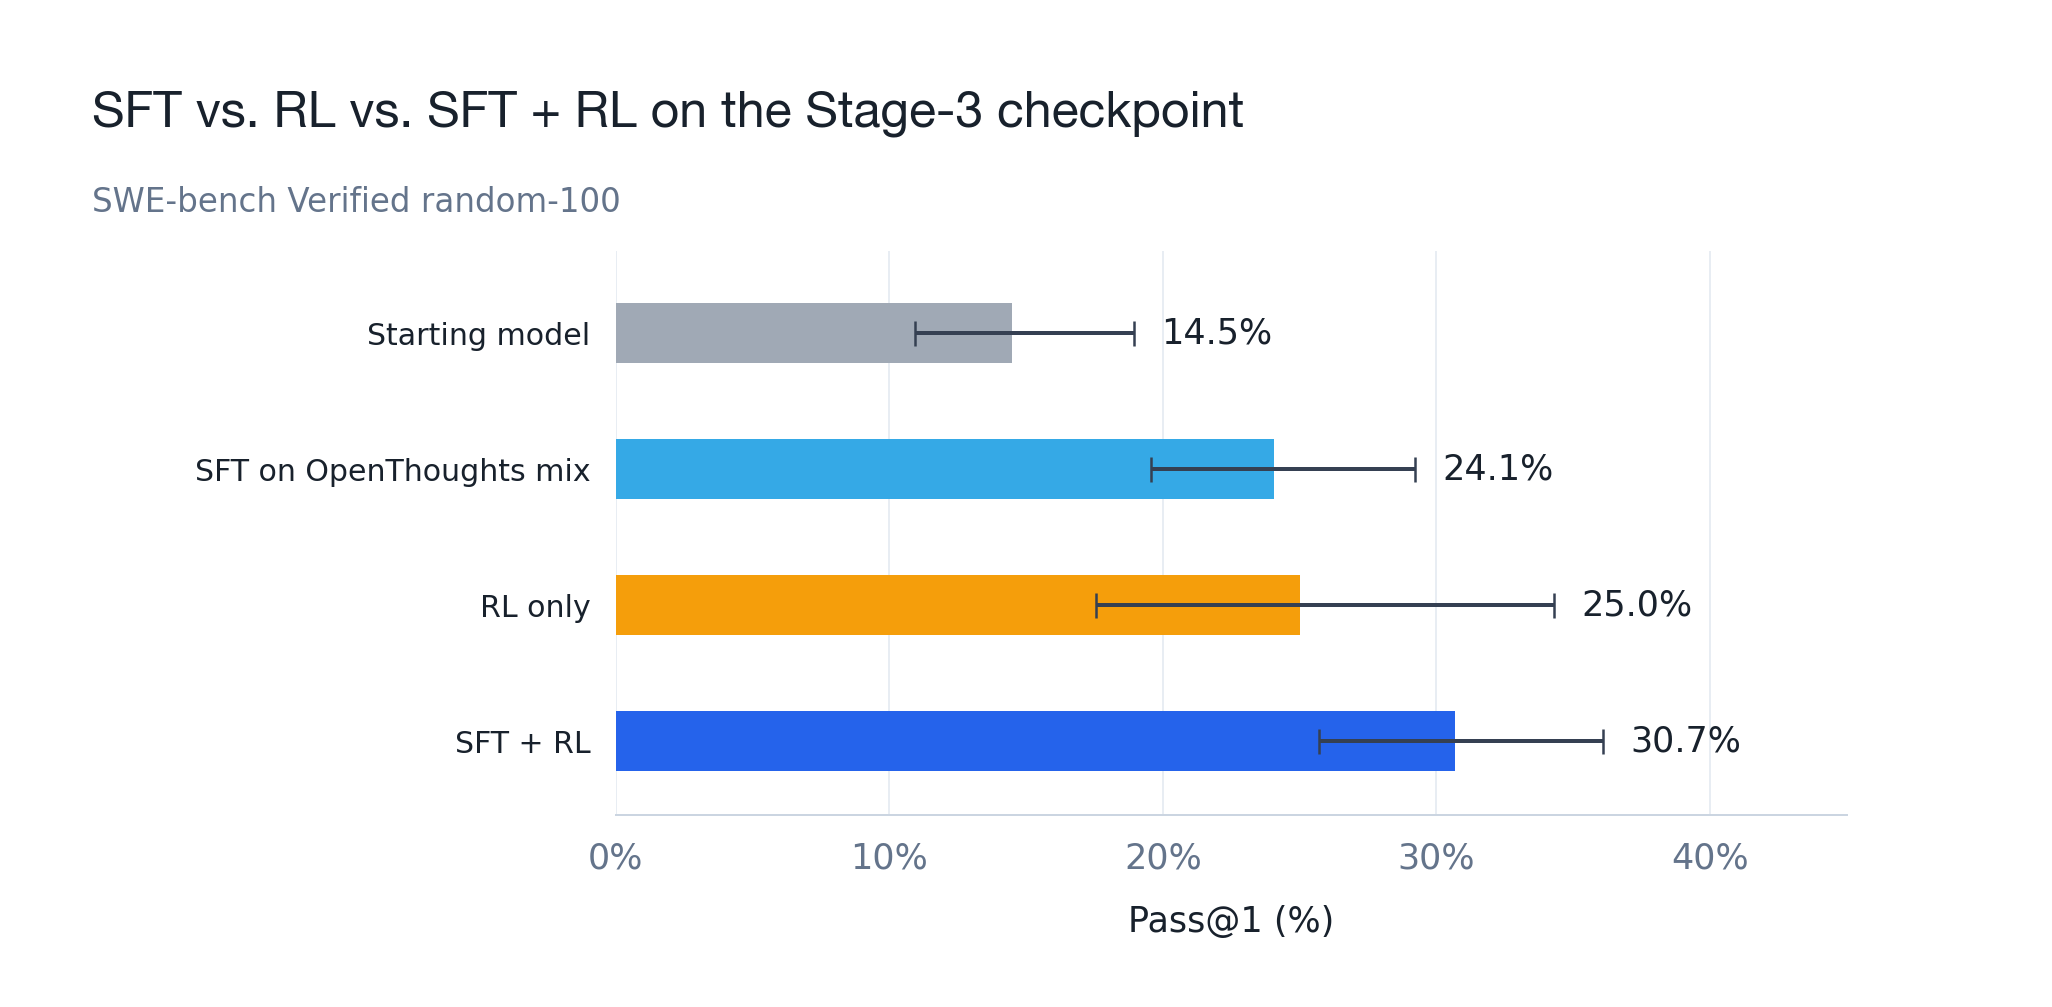
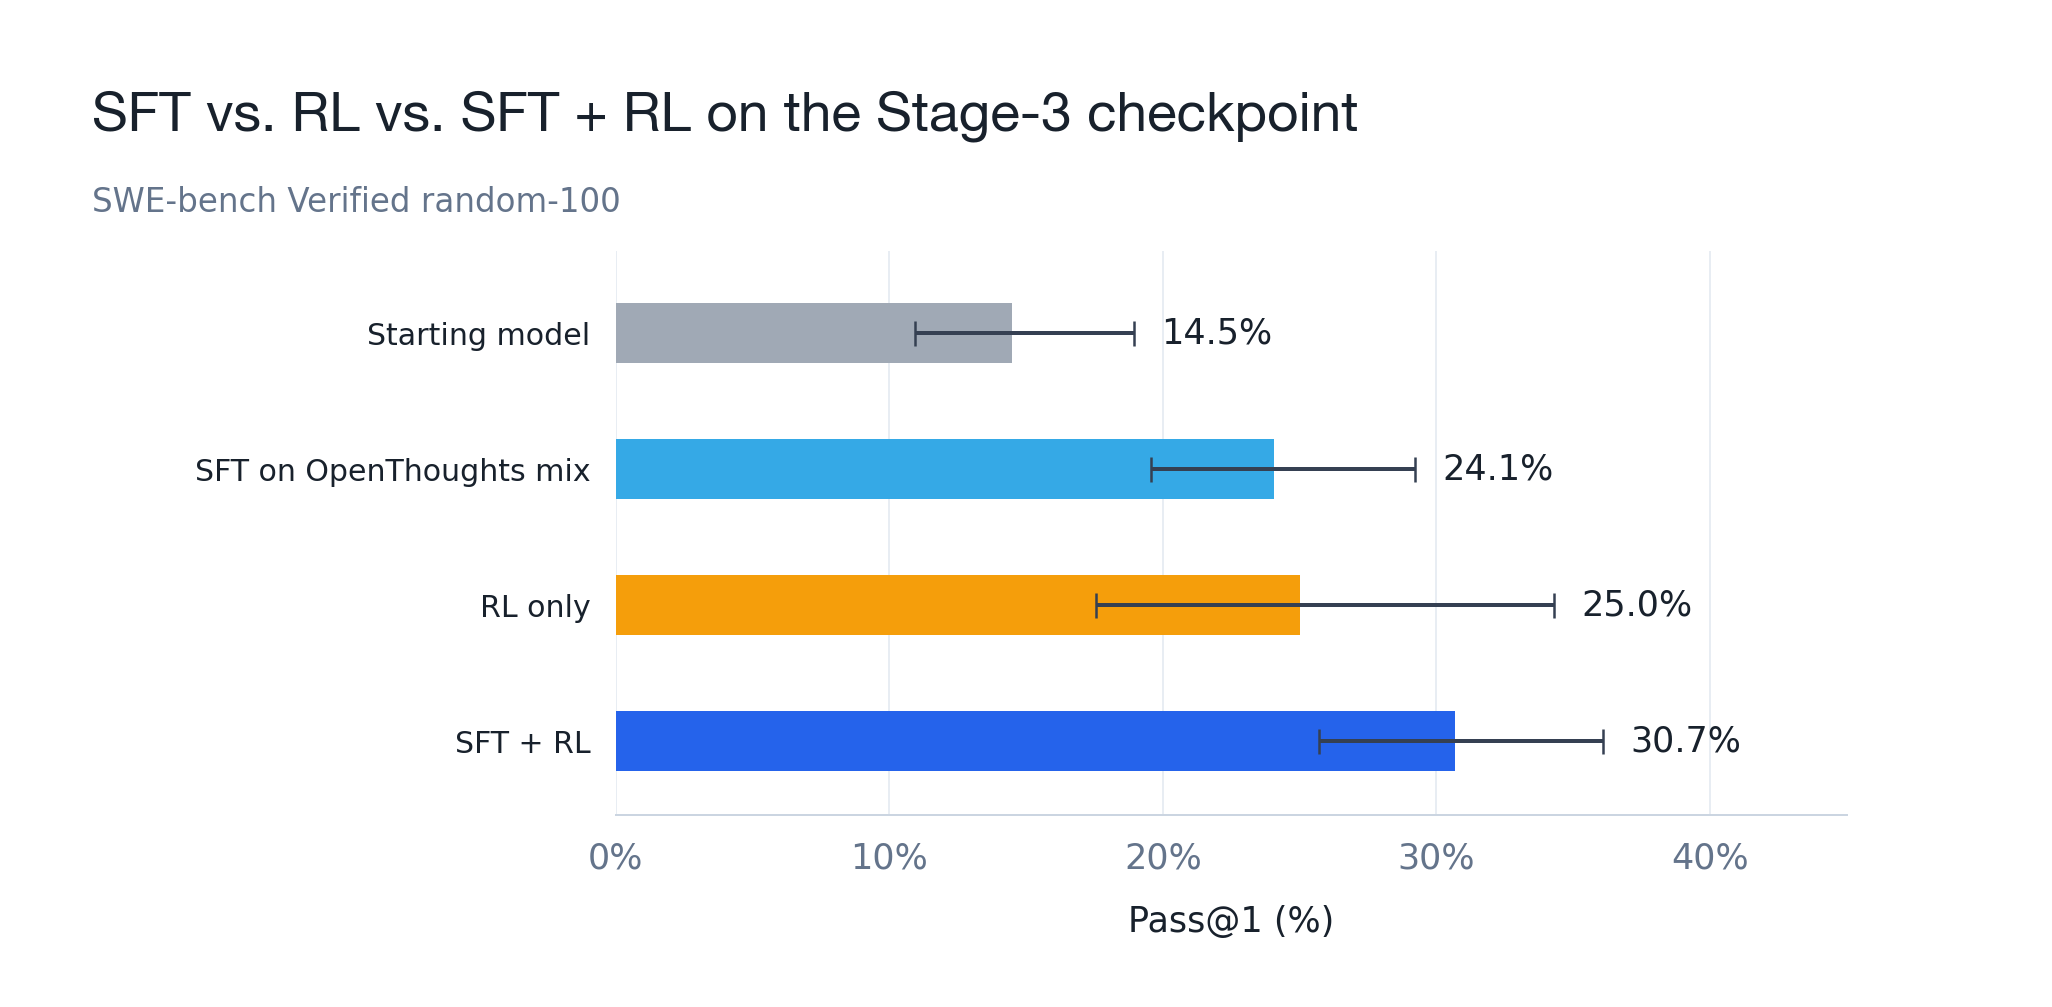
Match historical comparison title size

Changed region(s): [[0.0312, 0.0924, 0.6862, 0.1539]]

diff --git a/scripts/render_snowball_earlier_swe.py b/scripts/render_snowball_earlier_swe.py
@@ -23,7 +23,7 @@ for i,((k,n),color) in enumerate(zip(counts,colors)):
  ax.barh(y,100*v,height=.44,color=color,zorder=2)
  ax.errorbar(100*v,y,xerr=[[100*(v-lo)],[100*(hi-v)]],fmt='none',ecolor='#354052',capsize=5,elinewidth=1.6,zorder=3)
  ax.text(100*hi+1,y,f'{100*v:.1f}%',va='center',fontsize=14)
-fig.text(.045,.91,'SFT vs. RL vs. SFT + RL on the Stage-3 checkpoint',fontsize=20,fontproperties=TITLE_FONT,va='top')
+fig.text(.045,.91,'SFT vs. RL vs. SFT + RL on the Stage-3 checkpoint',fontsize=22,fontproperties=TITLE_FONT,va='top')
 fig.text(.045,.79,'SWE-bench Verified random-100',fontsize=13,color='#64748B')
 ax.set_yticks([3,2,1,0],labels,fontsize=12);ax.set(xlim=(0,45),ylim=(-.55,3.6),xlabel='Pass@1 (%)')
 ax.set_xticks([0,10,20,30,40]);ax.xaxis.set_major_formatter(PercentFormatter(100,decimals=0))

diff --git a/_posts/2026-10-21-turning-snowball-into-a-coding-agent.md b/_posts/2026-10-21-turning-snowball-into-a-coding-agent.md
@@ -207,7 +207,7 @@ On the older Stage-3 checkpoint, I tried additional SFT on a mixture of OpenThou
 SFT raised SWE-bench from 14.5% to 24.1%; another 30 GRPO updates brought it to 30.7%. RL directly from the starting checkpoint scored 25.0% in its earlier evaluation. SFT could provide a better starting policy, and RL could improve it further.
 
 <figure class="research-figure">
-<a href="{{ '/assets/img/snowball/ota-sft-rl-swe.png?v=centered-rows' | relative_url }}"><img src="{{ '/assets/img/snowball/ota-sft-rl-swe.png?v=centered-rows' | relative_url }}" alt="SWE-bench Verified random-100 on the older Stage-3 checkpoint: starting model 14.5%, SFT 24.1%, RL only 25.0%, and SFT followed by RL 30.7%, with 95% Wilson intervals." width="2052" height="1007" loading="lazy"></a>
+<a href="{{ '/assets/img/snowball/ota-sft-rl-swe.png?v=matched-title-size' | relative_url }}"><img src="{{ '/assets/img/snowball/ota-sft-rl-swe.png?v=matched-title-size' | relative_url }}" alt="SWE-bench Verified random-100 on the older Stage-3 checkpoint: starting model 14.5%, SFT 24.1%, RL only 25.0%, and SFT followed by RL 30.7%, with 95% Wilson intervals." width="2052" height="1007" loading="lazy"></a>
 <figcaption>All rows use Eval Policy v0.1. The starting model, SFT, and SFT→RL results pool three evaluation runs; RL-alone is one earlier run at lower concurrency. Treat its comparison as approximate rather than a paired test. Lines show 95% intervals.</figcaption>
 </figure>
 
